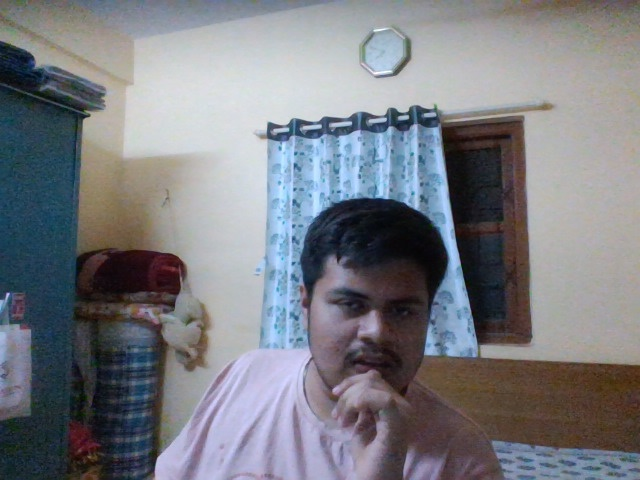
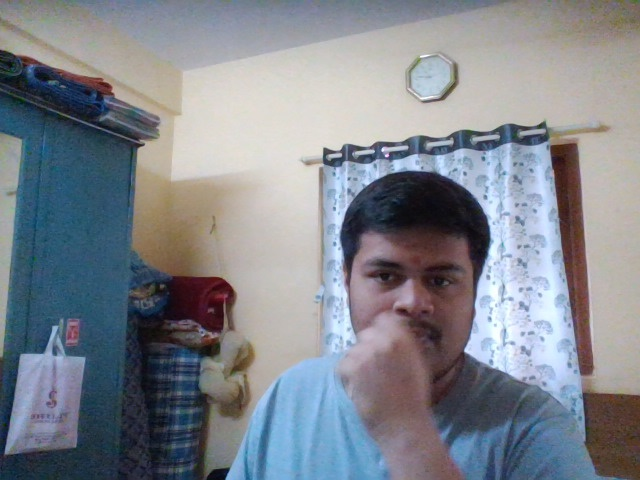
The webcam frame now works , you can see WEBCAM now working and the image gets clicked successfully .

diff --git a/FaceDemo/src/temp/webcam_capture.java b/FaceDemo/src/temp/webcam_capture.java
@@ -1,6 +1,6 @@
 package temp;
-
 import java.awt.BorderLayout;
+import java.awt.Dimension;
 import java.awt.event.ActionEvent;
 import java.awt.event.ActionListener;
 import java.awt.image.BufferedImage;
@@ -12,6 +12,7 @@ import javax.swing.JOptionPane;
 import javax.swing.JPanel;
 import javax.swing.Timer;
 import javax.swing.border.MatteBorder;
+import org.opencv.core.Core;
 import org.opencv.core.Mat;
 import org.opencv.imgcodecs.Imgcodecs;
 import org.opencv.imgproc.Imgproc;
@@ -43,7 +44,7 @@ public class webcam_capture extends javax.swing.JFrame {
         jLabel1.setBorder(new javax.swing.border.LineBorder(new java.awt.Color(51, 51, 51), 3, true));
 
         jButton1.setFont(new java.awt.Font("Book Antiqua", 1, 12)); // NOI18N
-        jButton1.setText("Capture Image");
+        jButton1.setText("Start Webcam");
         jButton1.addActionListener(new java.awt.event.ActionListener() {
             public void actionPerformed(java.awt.event.ActionEvent evt) {
                 jButton1ActionPerformed(evt);
@@ -119,6 +120,10 @@ public class webcam_capture extends javax.swing.JFrame {
                 webcamPanel.setLayout(new BorderLayout());
                 webcamPanel.add(imgLabel, BorderLayout.CENTER);
                 getContentPane().add(webcamPanel, BorderLayout.CENTER);
+                webcamPanel.setBounds(200,100,300,300);
+//                webcamPanel.setPreferredSize(new Dimension(200, 200));
+//                webcamPanel.setSize(300, 300);
+//             
                 setVisible(true);           
         if (camera == null) {
                     camera = new VideoCapture(0); // Open default camera (index 0)
@@ -151,6 +156,7 @@ public class webcam_capture extends javax.swing.JFrame {
                             Mat frame = new Mat(); // Declare Mat frame as a class-level variable
                             if (camera.read(frame)) {
                                 Imgproc.cvtColor(frame, frame, Imgproc.COLOR_BGR2RGB); // Convert color space for displaying in Swing
+                                  Core.flip(frame, frame, 1); // Flip along the x-axis only
                                 bufferedImage = Mat2BufferedImage(frame);
                                 imgLabel.setIcon(new ImageIcon(bufferedImage));
                                 imgLabel.repaint();
@@ -198,7 +204,7 @@ public class webcam_capture extends javax.swing.JFrame {
         }
         //</editor-fold>
 
-      
+      System.loadLibrary(Core.NATIVE_LIBRARY_NAME);
         java.awt.EventQueue.invokeLater(new Runnable() {
             public void run() {
                 new webcam_capture().setVisible(true);

diff --git a/FaceDemo/src/temp/login.java b/FaceDemo/src/temp/login.java
@@ -146,7 +146,10 @@ public class login extends javax.swing.JFrame {
     }//GEN-LAST:event_jButton2ActionPerformed
 
     private void jButton1ActionPerformed(java.awt.event.ActionEvent evt) {//GEN-FIRST:event_jButton1ActionPerformed
-           this.dispose(); // but first need to add face verfication here and then decide if go further or not.
+           webcam_capture cam1 = new webcam_capture();
+           cam1.setVisible(true);
+           cam1.toFront();
+          this.dispose(); // but first need to add face verfication here and then decide if go further or not.
            homepage h1 = new homepage();
            h1.setVisible(true);
     }//GEN-LAST:event_jButton1ActionPerformed

diff --git a/FaceDemo/src/temp/register.java b/FaceDemo/src/temp/register.java
@@ -1,9 +1,6 @@
 package temp;
-import java.awt.image.BufferedImage;
-import java.awt.image.DataBufferByte;
 import javax.swing.*;
 import org.opencv.core.Core;
-import org.opencv.core.Mat;
 public class register extends javax.swing.JFrame {
 
     public register() {
@@ -14,7 +11,7 @@ public class register extends javax.swing.JFrame {
         
 
     }
-
+    
     // <editor-fold defaultstate="collapsed" desc="Generated Code">//GEN-BEGIN:initComponents
     private void initComponents() {
 
